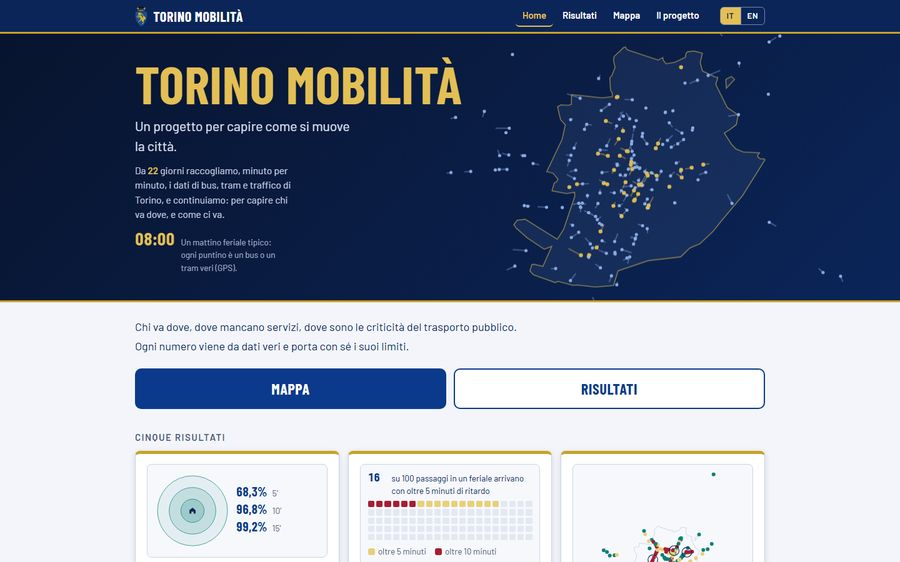
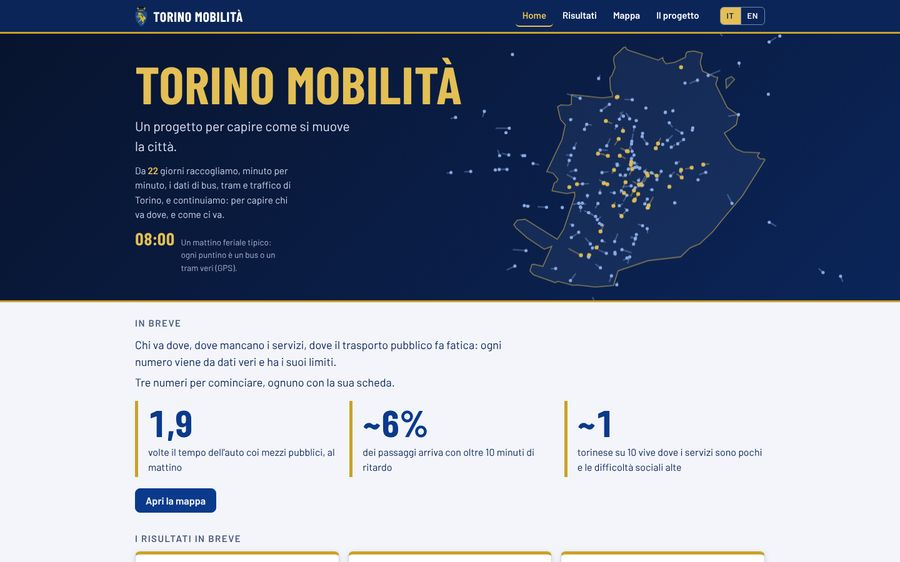
L19: immagini del README dalla home nuova, esito e memoria
Claude-Session: https://claude.ai/code/session_014Z7VXt9rvCgFUMBEd1UDnG

diff --git a/sviluppo/MEMORIA_PROGETTO.md b/sviluppo/MEMORIA_PROGETTO.md
@@ -73,7 +73,7 @@ Catene `.bat` (in `scripts/`): `RACCOLTA_GIORNALIERA` + `INSTALLA_RACCOLTA_GIORN
   **Parte D** (93, 100): a 4 ore del giorno il rapporto mediano sale (13:00 2,37-3,10; 21:00 3,32), titolo resta «al mattino»; tempo coi mezzi contro auto, forbice con due fattori di punta (1,2 sensori 5T; 2,1 Google Maps): rapporto mediano **da 1,96 a 2,94** («da 2 a 3 volte il tempo dell'auto»), auto oltre 2 volte da 41% a 97%; cintura-cintura a parte. `docs/R8_traffico.md`.
 - **Mappa** (giri 1-4 fatti): partenza senza tema su satellite, due gruppi di temi, «Chi abita qui» (8 viste), «Fragilità sociale», «Servizi a portata», «Servizi mancanti», «Prezzo delle case», «Mezzi pubblici sotto casa», «Spostamenti» (IMQ),
   «Velocità e traffico» (medie per tipo di giorno), «Ritardi delle linee», «Parcheggi di scambio», «Luoghi della città»; niente dati live, corse simulate, pendolari, avvisi. **Giro 4 fatto** (5,9 MB, «Luoghi della città» a 6 caselle).
-- **Schede** (`schede_risultati.py` → `data/schede_risultati.js`): `index.html` (ingresso), `risultati.html` con schede R1, R4, R6, R8 e R10 «Case, servizi e fragilità» (da controllare sui dati veri: piano 3); numerazione in pagina 1-5 (`numero_pubblico`: R1→1, R4→2, R6→3, R8→4, R10→5; link `#rN` interni validi, nuovi `#pN`) (L2, 23/10: titolo-risposta, numero grande che sale, **animazione** (`assets/animazioni.js`; la 4 è l'area che si espande, `Area.html({compatto})` per la home), 3 punti, grafico, «Altri grafici» aperti, una sola parte chiusa; R2 nascosto). Rieseguire lo script dopo ogni rilancio di un risultato. **L15-L18 (24/10, `ESITO_L15-18.md`)**: niente etichette STIMATO/MISURATO né riga «Limite» in vista (il tipo di dato è nel calcolo, `comune.TIPO_DATO`); numeri secondari con «~» (`comune.circa()`), testi impersonali, fasce mattino/giorno/sera/tarda sera; schede 3-4 in vista solo TomTom (sensori 5T nel calcolo); gara (`assets/gara.js`, modo «giro») e area (`assets/area.js`) da sole, senza comandi, alle 8 da Piazza Castello; home in tre parti (In breve con `chiave`, riquadri con `numero.breve`, fascia «Il progetto» da `assets/progetto.js`); caricamento della mappa col toro (almeno 2 s). `prova_pagine.py --solo-design` = controlli di design veloci.
+- **Schede** (`schede_risultati.py` → `data/schede_risultati.js`): `index.html` (ingresso), `risultati.html` con schede R1, R4, R6, R8 e R10 «Case, servizi e fragilità» (da controllare sui dati veri: piano 3); numerazione in pagina 1-5 (`numero_pubblico`: R1→1, R4→2, R6→3, R8→4, R10→5; link `#rN` interni validi, nuovi `#pN`) (L2, 23/10: titolo-risposta, numero grande che sale, **animazione** (`assets/animazioni.js`; la 4 è l'area che si espande, `Area.html({compatto})` per la home), 3 punti, grafico, «Altri grafici» aperti, una sola parte chiusa; R2 nascosto). Rieseguire lo script dopo ogni rilancio di un risultato. **L15-L18 (24/10, `ESITO_L15-18.md`)**: niente etichette STIMATO/MISURATO né riga «Limite» in vista (il tipo di dato è nel calcolo, `comune.TIPO_DATO`); numeri secondari con «~» (`comune.circa()`), testi impersonali, fasce mattino/giorno/sera/tarda sera; schede 3-4 in vista solo TomTom (sensori 5T nel calcolo); gara (`assets/gara.js`, modo «giro») e area (`assets/area.js`) da sole, senza comandi, alle 8 da Piazza Castello; home in tre parti (In breve con `chiave`, riquadri con `numero.breve`, fascia «Il progetto» da `assets/progetto.js`); caricamento della mappa col toro (linea d'oro che corre sul contorno avanti e indietro, almeno 2 s; L19: gara del pannello della mappa con una sola auto TomTom, `gara.js` senza comandi). `prova_pagine.py --solo-design` = controlli di design veloci.
 - **Rapporto sostenibilità GTT 2025**: 980 fatti verificati (`docs/rapporti/RIASSUNTO_RAPPORTO_SOSTENIBILITA_2025.md`). **Ora legale** controllata (conversioni UTC → italiana coincidono con il fuso ufficiale su 35.040 istanti 2026-27).
 - **Pulizia** (21/10): documenti, script e `.bat` superati cancellati; il resto (README, `sviluppo/`, `main`) nel piano 1. Giro 4 della mappa, R6 minuti di pareggio, R4 giro 6 e script 95 lanciati sul PC (21-22/10).
 

diff --git a/sviluppo/piani/ESITO_L19.md b/sviluppo/piani/ESITO_L19.md
@@ -14,7 +14,11 @@ Partenza da `origin/prova` (ff6fbca) più il commit del piano «Dopo L15-L18».
 - La prova controlla nel template e in `mappa_torino.html` che la chiamata sia `giro:true`, senza `auto_alto_min` né `compatto`.
 
 ## 3. Immagini del README
-Rifatte con `prova_pagine.py --playwright` dalla home nuova (`assets/readme/*.jpg`); le anteprime `assets/anteprime/` tenute solo se cambiano davvero (vedi sotto).
+Rifatte con `prova_pagine.py --playwright` dalla home nuova (`assets/readme/*.jpg`). Le anteprime `assets/anteprime/` sono cambiate solo per la ricompressione: ripristinate.
 
 ## Prove
 `node --check assets/*.js`, `pyflakes scripts`, `prova_pagine.py --playwright` (0 errori, `prova_link_mappa` OK), peso di `mappa_torino.html` entro 5.961.194 byte.
+
+## Correzioni dopo la prova di Leo sul PC
+- La gara delle schede non partiva (`t.parlatoGiro is not a function` dopo la pulizia di `gara.js`): corretto, la prova di design lo trova.
+- Il toro non si disegnava: con `vector-effect:non-scaling-stroke` il tratteggio ignora `pathLength`. Ora lo spessore è in unità del disegno (`stroke-width:45`, il gruppo è scalato di 0,1: circa 1,5 px) e la linea si crea sul contorno.
